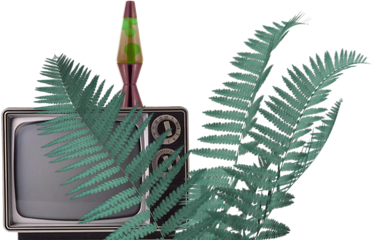
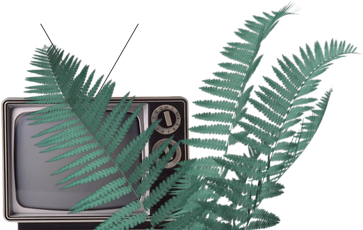
Add vine for larger screens

diff --git a/css/main.css b/css/main.css
@@ -13,7 +13,7 @@ body {
 
 h1 {
     font-family: "heading", "Helvectica Neue", serif;
-    font-size: 63px;
+    font-size: 58px;
 }
 
 p {
@@ -100,7 +100,7 @@ header p {
 }
 
 .center-hero-image {
-    max-width: 370px;
+    max-width: 400px;
     position: absolute;
     margin: auto;
     top: 200px;
@@ -111,7 +111,7 @@ header p {
 }
 
 .right-hero-image {
-    max-width: 320px;
+    max-width: 340px;
     position: absolute;
     margin: auto;
     top: 0;
@@ -125,10 +125,29 @@ header p {
     max-width: 56px;
     position: absolute;
     margin: auto;
-    top: -50px;
+    top: -36px;
     left: 0;
-    right: 100px;
+    right: 0;
 }
+
+.vine-image {
+    display: none;
+    max-width: 320px;
+    position: absolute;
+    margin: auto;
+    top: -10px;
+    left: 0;
+    right: 400px;
+    z-index: -1;
+}
+
+
+@media (min-height: 815px) {
+    .vine-image {
+        display: inherit;
+    }
+}
+
 
 .diamonds-image {
     position: absolute;

diff --git a/index.html b/index.html
@@ -51,8 +51,9 @@
                 </header>
                 <h1>Thanks for stopping by.</h1>
                 <img class="left-hero-image" src="images/left.png" alt="tvs lol" />
-                <img class="diamonds-image" src="images/shinebrightlikea.png" alt="shiny" />
+                <img class="diamonds-image" src="images/diamonds.png" alt="shiny" />
                 <img class="light-image" src="images/light.png" alt="lamp" />
+                <img class="vine-image" src="images/vine.png" alt="lamp" />
                 <img class="center-hero-image" src="images/center.png" alt="paperback" />
                 <img class="right-hero-image" src="images/right.png" alt="paperback" />
                 <p class="hero-paragraph">
